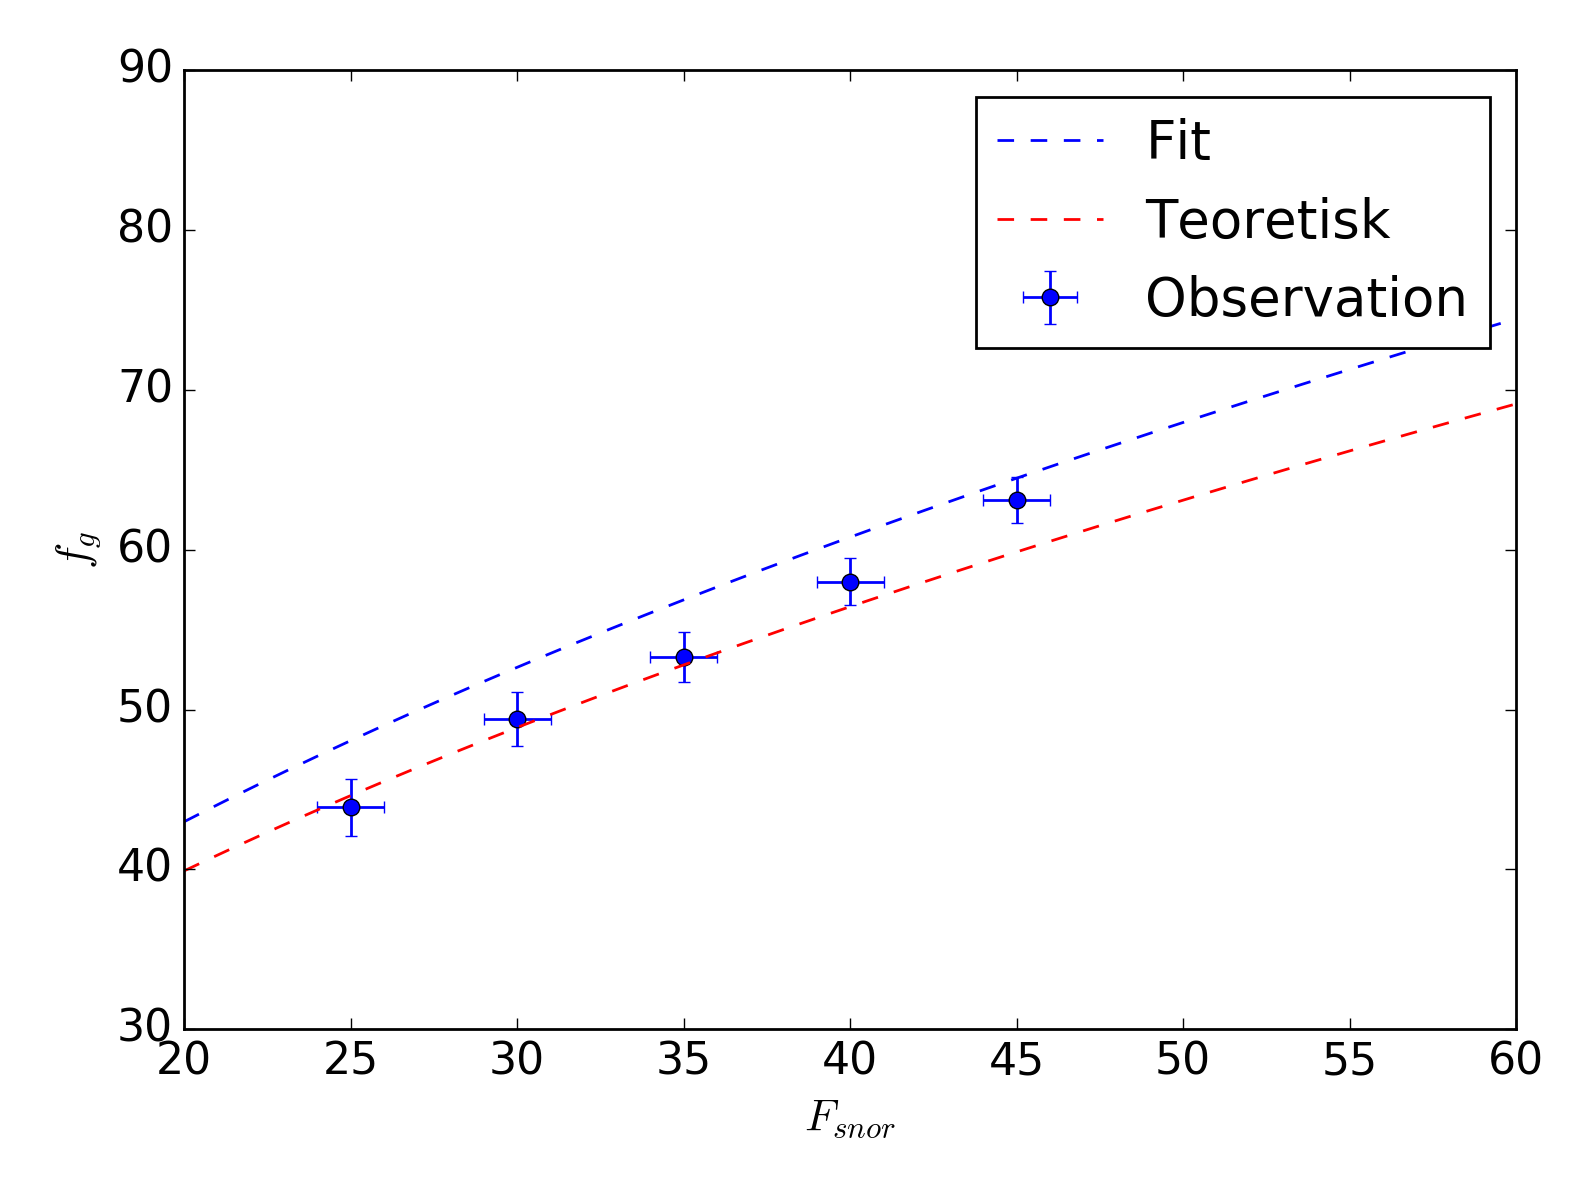
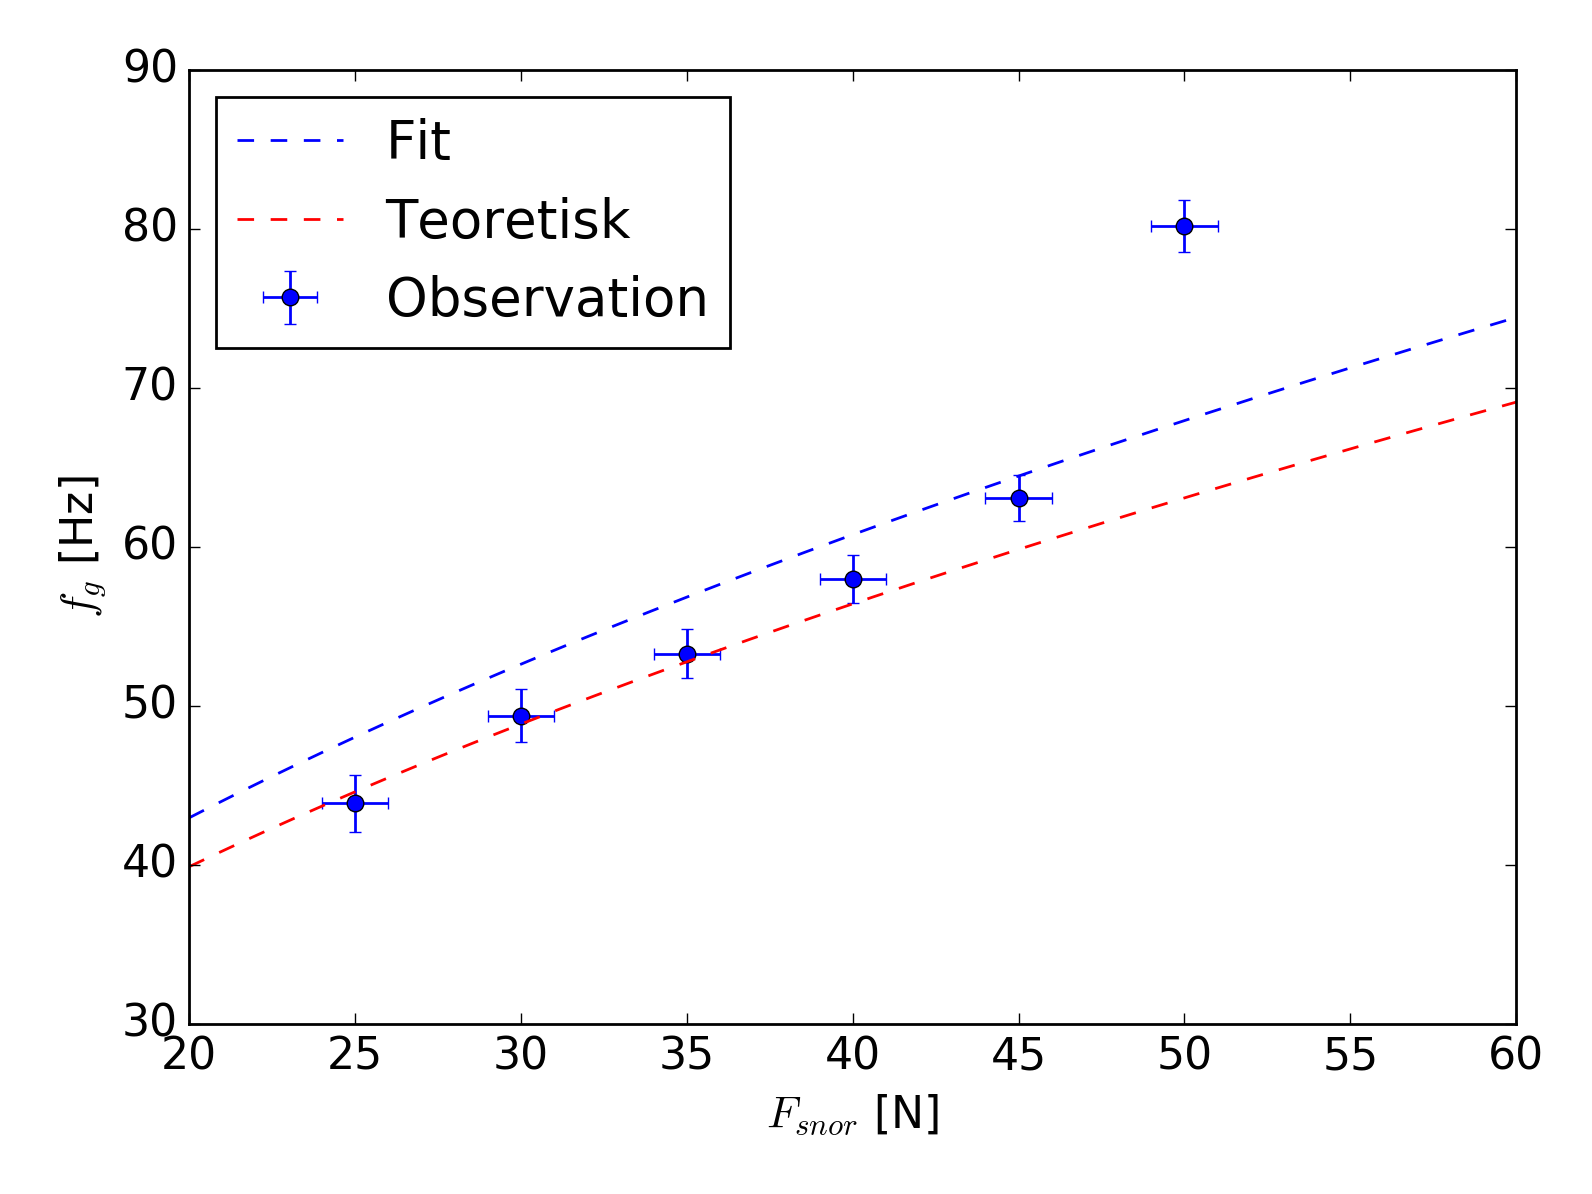
rettelser i grafer

diff --git a/rapport1/databehandling.py b/rapport1/databehandling.py
@@ -59,17 +59,18 @@ xerr_F = DF;
 plt.errorbar(data_snor1[1],data_snor1[0],xerr=xerr_F,yerr=yerr_F,label = 'Observation', fmt='o',  capsize=2);
 plt.plot(F_range,freq_opt,'b--',label = 'Fit');
 plt.plot(F_range,freq_F, 'r--',label='Teoretisk');
-plt.legend(numpoints = 1)
-plt.xlabel('$F_{snor}$')
-plt.ylabel('$f_g$')
+plt.legend(loc = 'upper left',numpoints = 1)
+plt.xlabel('$F_{snor}$ [N]')
+plt.ylabel('$f_g$ [Hz]')
 plt.tight_layout();
 plt.savefig("frekvensSnorSpaending.png", dpi = 199)
 plt.show()
 #%% - - - - - - - - - Frekvens som funktion af masse pr laengde
-'''
-data_30_N = np.array([[49.4, 140, 60.5, 144, 203.3],[8.72/1000, 1.00/1000, 5.79/1000, 7.87/1000, 0.564/1000]]) #grundtone, mu
 mu_range = np.linspace(0.4,9,1000)/1000
 freq_mu = grundFrekvens(30,mu_range)
+data_30_N = np.array([[49.4, 140, 60.5, 144, 203.3],[8.72/1000, 1.00/1000, 5.79/1000, 7.87/1000, 0.564/1000]]) #grundtone, mu
+'''
+
 plt.plot(mu_range,freq_mu,'r--')
 plt.errorbar(data_30_N[1],data_30_N[0],xerr=0,yerr=20,label = 'Observation', fmt='o',  capsize=2)
 plt.legend(["Teoretisk vaerdi","Observation"],numpoints = 1)
